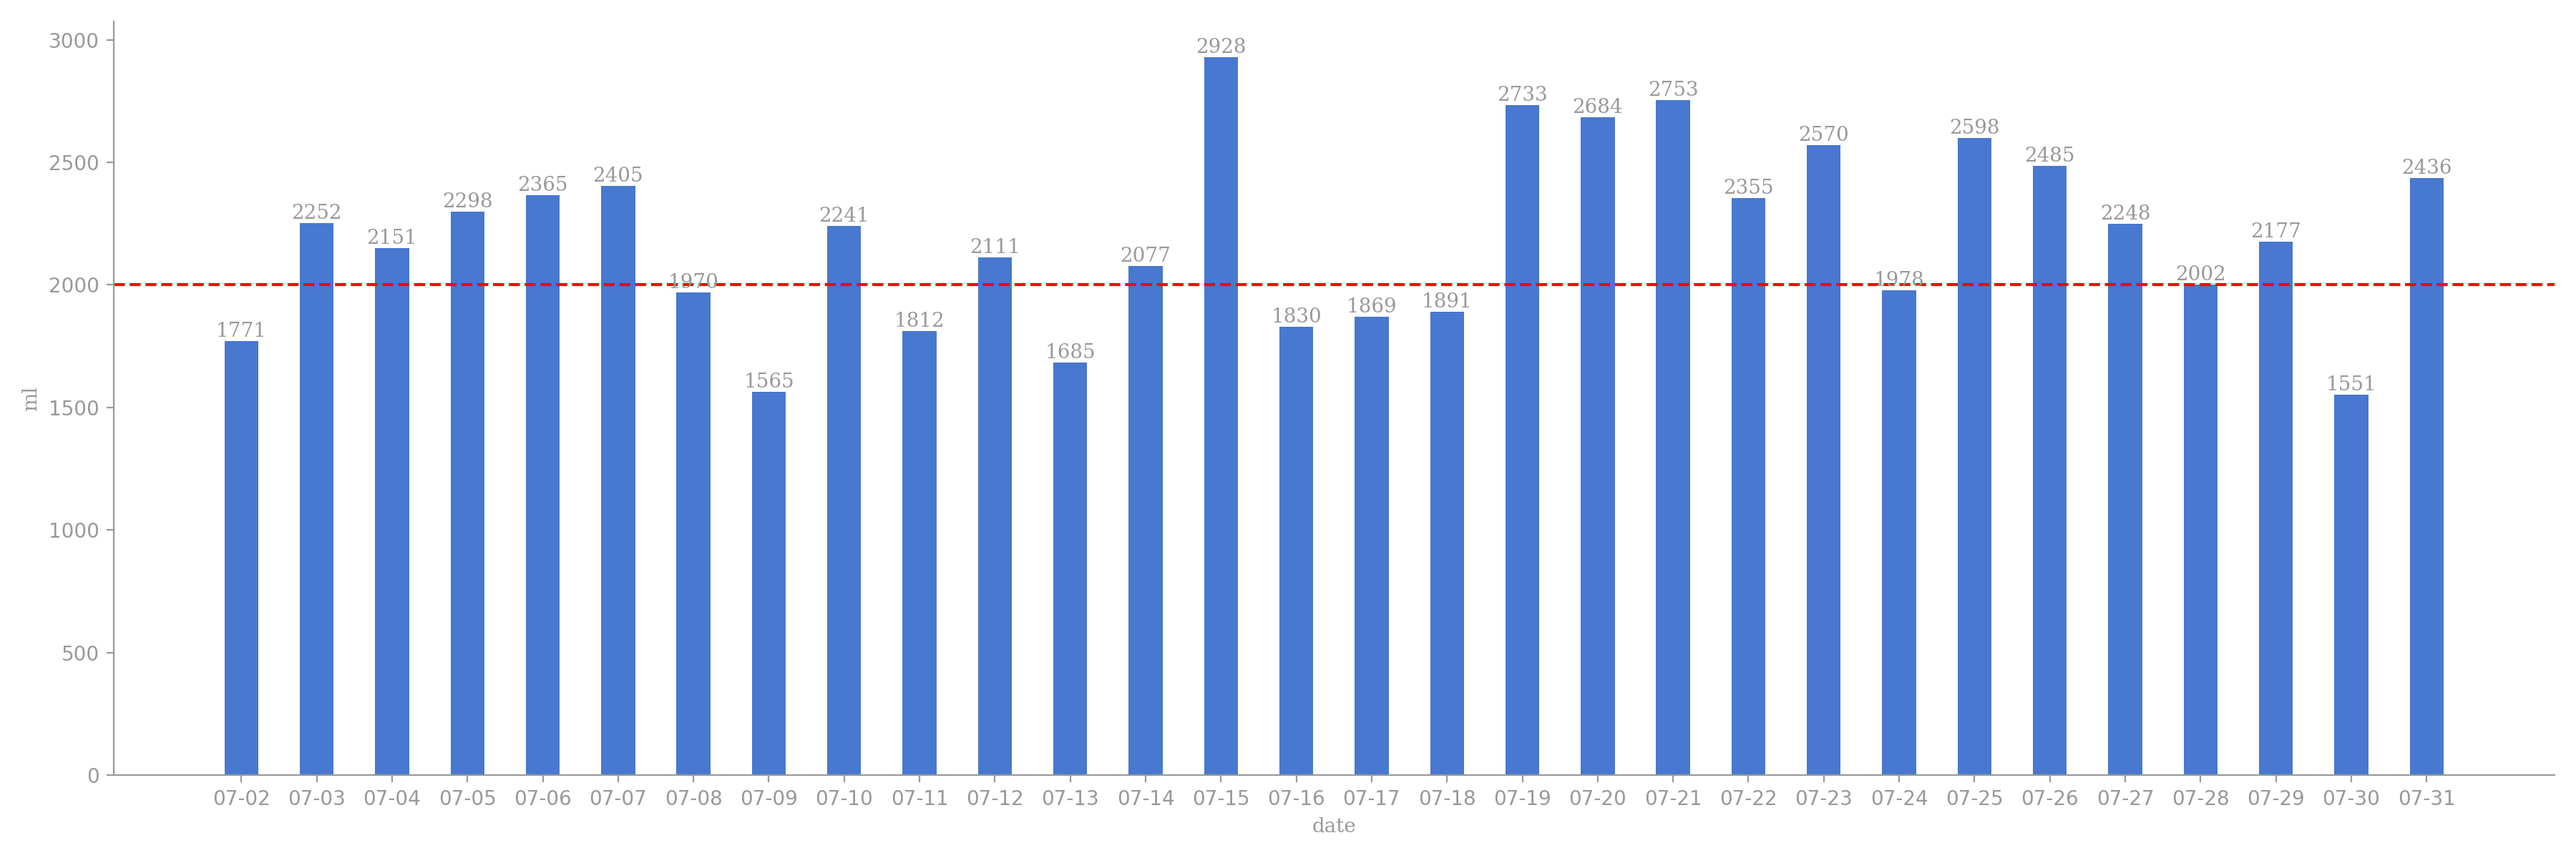
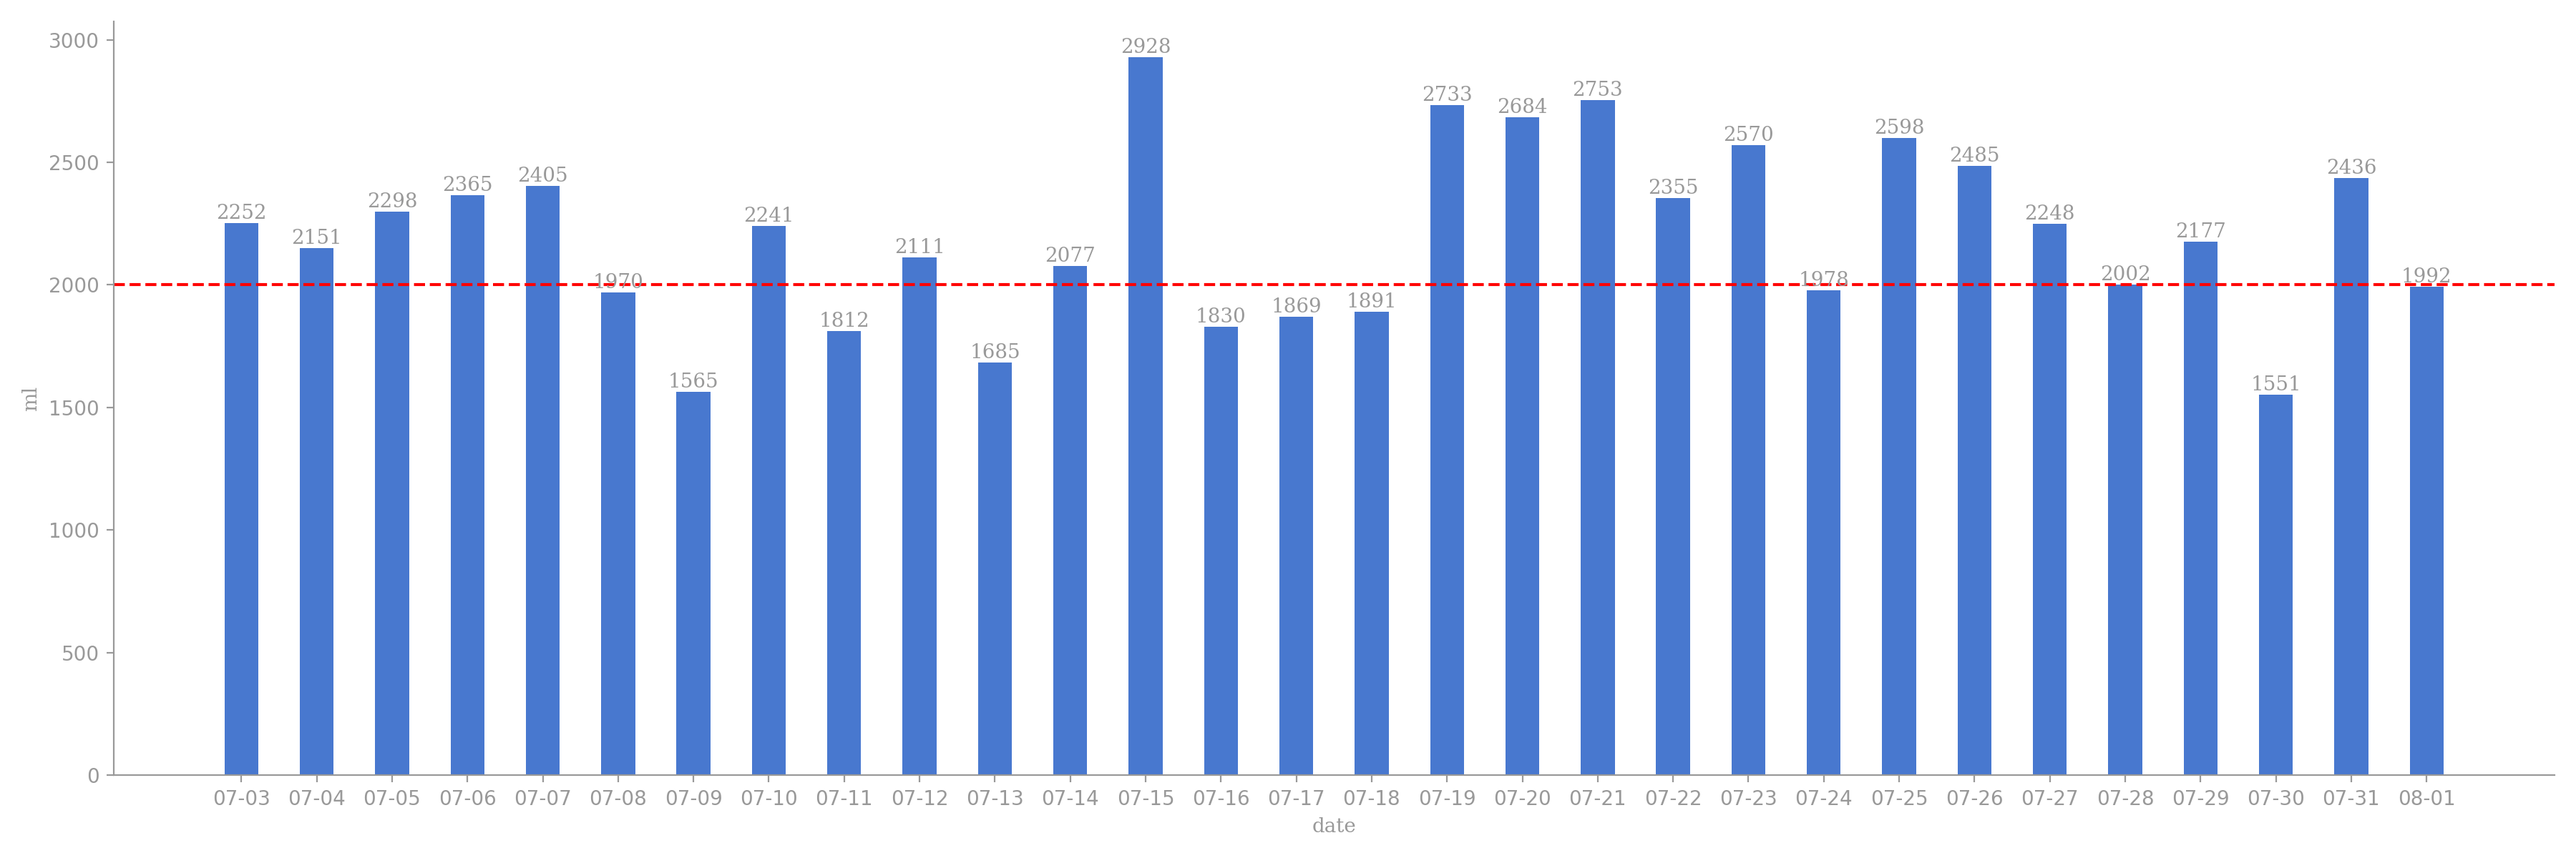
crontab auto git

Changed region(s): [[0.0622, 0.0308, 0.9644, 0.4625]]

diff --git a/README.md b/README.md
@@ -1,17 +1,3 @@
-# 今日饮水数据
-
-<div align=center>
-<img src="today.png" style="zoom: 100%;" />
-
-| 今日总饮水量 | 每小时平均饮水量 |
-| :----: | :----: |
-| 1992 | 124 |
-</div>
-
-| 日期 | 01:23:41 | 07:10:47 | 09:31:14 | 09:59:01 | 10:38:43 | 11:05:55 | 12:28:03 | 13:11:44 | 13:49:00 | 14:02:58 | 14:38:08 | 16:02:40 | 16:25:06 | 17:31:05 | 18:01:27 | 19:01:50 | 20:04:21 | 20:49:01 | 21:09:48 | 21:50:27 | 22:05:15 | 22:43:25 | 23:06:57 | 23:30:53 | 23:45:56 |
-| :----: | :----: | :----: | :----: | :----: | :----: | :----: | :----: | :----: | :----: | :----: | :----: | :----: | :----: | :----: | :----: | :----: | :----: | :----: | :----: | :----: | :----: | :----: | :----: | :----: | :----: |
-| 2026-08-01 | 42 | 116 | 86 | 66 | 31 | 89 | 300 | 53 | 43 | 78 | 78 | 71 | 33 | 27 | 68 | 65 | 200 | 82 | 79 | 73 | 80 | 67 | 37 | 61 | 67 |
-
 # 近30日饮水数据
 
 <div align=center>
@@ -19,8 +5,12 @@
 
 | 总饮水量 | 日均饮水量 |
 | :----: | :----: |
-| 65791 | 2193 |
+| 66012 | 2200 |
 </div>
+
+| 日期 | all | 01:23:41 | 07:10:47 | 09:31:14 | 09:59:01 | 10:38:43 | 11:05:55 | 12:28:03 | 13:11:44 | 13:49:00 | 14:02:58 | 14:38:08 | 16:02:40 | 16:25:06 | 17:31:05 | 18:01:27 | 19:01:50 | 20:04:21 | 20:49:01 | 21:09:48 | 21:50:27 | 22:05:15 | 22:43:25 | 23:06:57 | 23:30:53 | 23:45:56 |
+| :----: | :----: | :----: | :----: | :----: | :----: | :----: | :----: | :----: | :----: | :----: | :----: | :----: | :----: | :----: | :----: | :----: | :----: | :----: | :----: | :----: | :----: | :----: | :----: | :----: | :----: | :----: |
+| 2026-08-01 | 1992 | 42 | 116 | 86 | 66 | 31 | 89 | 300 | 53 | 43 | 78 | 78 | 71 | 33 | 27 | 68 | 65 | 200 | 82 | 79 | 73 | 80 | 67 | 37 | 61 | 67 |
 
 | 日期 | all | 00:23:03 | 01:24:50 | 07:25:39 | 08:08:15 | 09:00:55 | 10:14:35 | 11:30:29 | 13:07:18 | 14:01:15 | 15:06:30 | 15:06:59 | 15:11:10 | 15:14:39 | 15:43:57 | 16:14:30 | 16:19:57 | 17:05:24 | 17:46:51 | 19:48:14 | 20:41:54 | 21:18:22 | 22:33:56 | 23:56:34 |
 | :----: | :----: | :----: | :----: | :----: | :----: | :----: | :----: | :----: | :----: | :----: | :----: | :----: | :----: | :----: | :----: | :----: | :----: | :----: | :----: | :----: | :----: | :----: | :----: | :----: |
@@ -141,8 +131,4 @@
 | 日期 | all | 00:26:56 | 08:06:43 | 08:16:42 | 08:57:53 | 10:14:52 | 10:16:13 | 11:19:44 | 12:16:41 | 13:05:14 | 13:42:10 | 14:29:55 | 15:12:28 | 16:05:28 | 17:21:27 | 18:15:13 | 20:04:18 | 20:56:57 | 22:29:55 |
 | :----: | :----: | :----: | :----: | :----: | :----: | :----: | :----: | :----: | :----: | :----: | :----: | :----: | :----: | :----: | :----: | :----: | :----: | :----: | :----: |
 | 2026-07-02 | 1771 | 88 | 102 | 76 | 102 | 36 | 112 | 83 | 200 | 86 | 67 | 61 | 23 | 102 | 76 | 67 | 300 | 86 | 104 |
-
-| 日期 | all | 07:13:02 | 07:57:59 | 08:04:55 | 08:38:01 | 09:32:57 | 10:13:25 | 10:22:20 | 10:48:46 | 11:23:10 | 11:49:08 | 13:05:05 | 13:17:11 | 13:35:12 | 13:58:12 | 14:08:28 | 14:40:48 | 15:05:19 | 15:12:36 | 16:47:36 | 18:15:28 | 19:23:15 | 20:21:39 | 21:16:51 | 22:43:38 | 23:46:59 |
-| :----: | :----: | :----: | :----: | :----: | :----: | :----: | :----: | :----: | :----: | :----: | :----: | :----: | :----: | :----: | :----: | :----: | :----: | :----: | :----: | :----: | :----: | :----: | :----: | :----: | :----: | :----: |
-| 2026-07-01 | 2185 | 86 | 76 | 101 | 93 | 88 | 88 | 66 | 54 | 76 | 101 | 62 | 101 | 69 | 83 | 30 | 98 | 68 | 79 | 102 | 85 | 46 | 300 | 88 | 67 | 78 |
 
